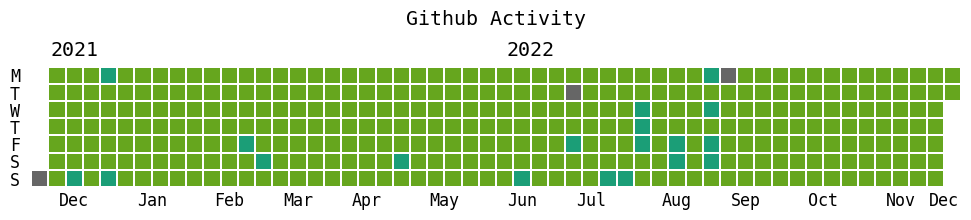
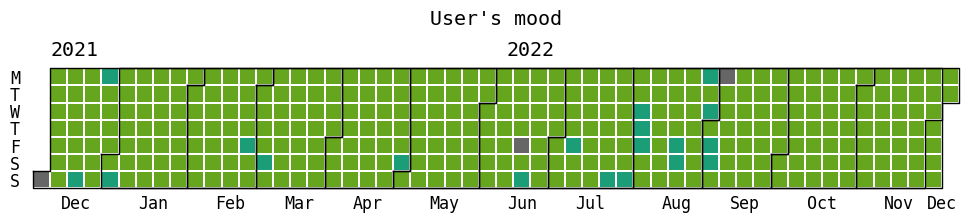
Commit

diff --git a/main.py b/main.py
@@ -68,7 +68,7 @@ mood_list = df.groupby('endTime')['mood_int'].apply(lambda x: x.mode()[0])
 df
 
 #On affiche le calendrier de l'année
-july.heatmap(mood_list.index, mood_list.values, title='User\'s Mood', cmap="Dark2")
+july.heatmap(mood_list.index, mood_list.values, title='User\'s Mood', cmap="Dark2",month_grid=True)
 '''
 0 : calm ==> turquoise
 1 : energetic ==> violet
